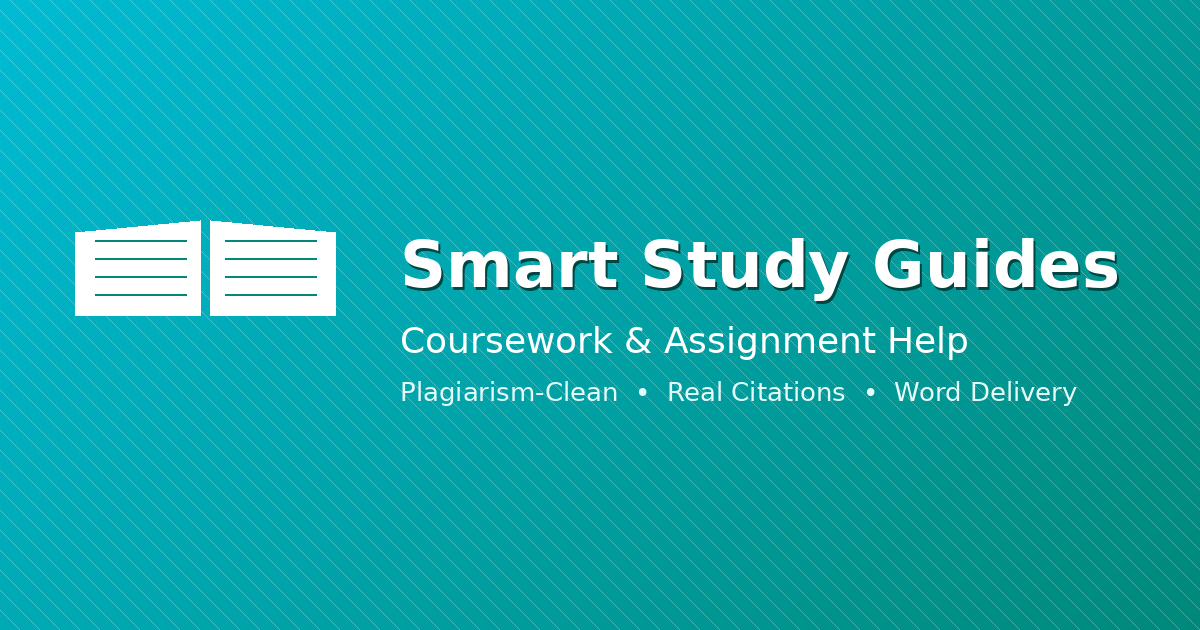
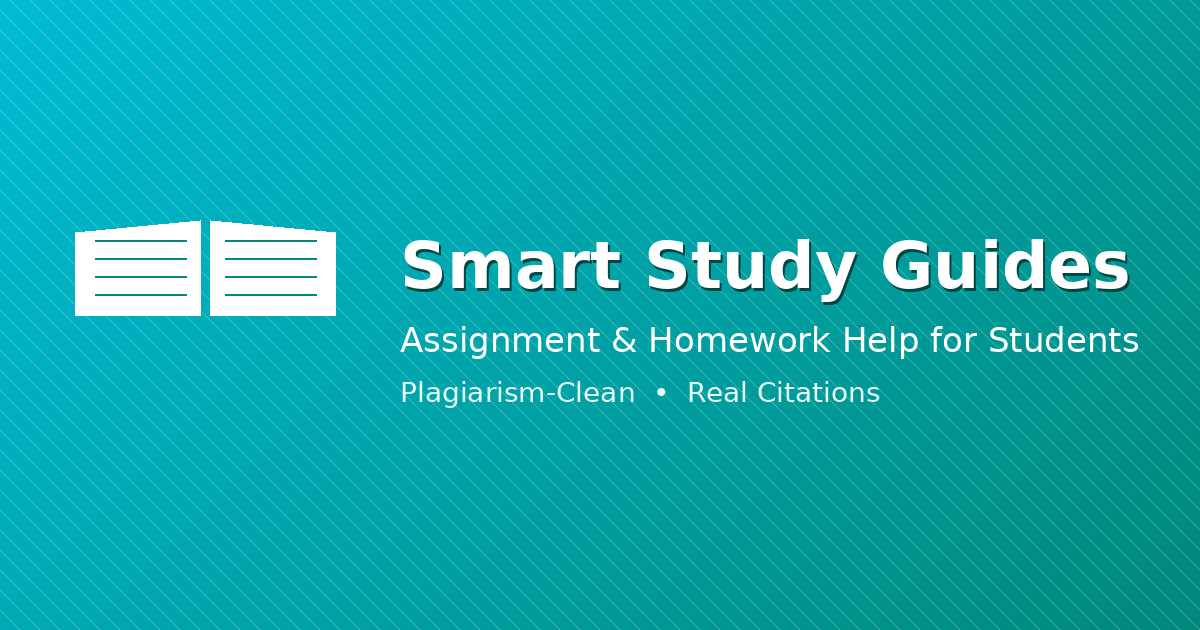
New student-focused search and marketing wording (no AI)
- Title: 'Smart Study Guides - Assignment & Homework Help for Students' (60 chars)
- Meta description (151 chars), keywords (assignment help, homework help, homework solver, student helper...), Open Graph and Twitter text
- Home: new H1, eyebrow and intro line; structured data description, FAQ and feature list reworded; no 'AI' in any structured data
- Guest dashboard and sign-in headlines match
- Redraw the share images with the new tagline

Changed region(s): [[0.3392, 0.3619, 0.9558, 0.4825], [0.3392, 0.5127, 0.9558, 0.573], [0.3392, 0.6032, 0.8942, 0.6635]]

diff --git a/flask_app/templates/base.html b/flask_app/templates/base.html
@@ -3,11 +3,11 @@
 <head>
   <meta charset="utf-8" />
   <meta name="viewport" content="width=device-width, initial-scale=1" />
-  <title>{% block title %}Smart Study Guides — Coursework and Assignment Help{% endblock %}</title>
+  <title>{% block title %}Smart Study Guides — Assignment &amp; Homework Help for Students{% endblock %}</title>
 
   <!-- ── SEO Meta ── -->
-  <meta name="description" content="{% block meta_description %}Smart Study Guides helps with coursework: polished, properly cited essays, discussion posts and presentations in minutes. Real research sources, delivered as a Word document.{% endblock %}" />
-  <meta name="keywords" content="{% block meta_keywords %}assignment help, coursework help, essay help, homework help, discussion posts, presentations, college assignment help, plagiarism-free assignments, APA MLA Harvard citations, Word document{% endblock %}" />
+  <meta name="description" content="{% block meta_description %}Assignment and homework help for students. Essays, discussion posts and presentations with real sources and proper citations, delivered as a Word file.{% endblock %}" />
+  <meta name="keywords" content="{% block meta_keywords %}assignment help, homework help, homework solver, essay help, student helper, coursework help, discussion posts, presentations, college assignment help, plagiarism-free assignments, APA MLA Harvard citations, Word document{% endblock %}" />
   <meta name="robots" content="{% block meta_robots %}index, follow{% endblock %}" />
   <link rel="canonical" href="{% block canonical %}https://smart-study-guides.com{{ request.path }}{% endblock %}" />
 
@@ -20,8 +20,8 @@
   <!-- ── Open Graph (Facebook, WhatsApp, LinkedIn) ── -->
   <meta property="og:type"        content="website" />
   <meta property="og:site_name"   content="Smart Study Guides" />
-  <meta property="og:title"       content="{% block og_title %}Smart Study Guides — Coursework and Assignment Help{% endblock %}" />
-  <meta property="og:description" content="{% block og_description %}Coursework and assignment help: polished, properly cited work with real research sources, delivered as a Word document.{% endblock %}" />
+  <meta property="og:title"       content="{% block og_title %}Smart Study Guides — Assignment &amp; Homework Help for Students{% endblock %}" />
+  <meta property="og:description" content="{% block og_description %}Assignment and homework help for students: essays, discussion posts and presentations with real citations, delivered as a Word file.{% endblock %}" />
   <meta property="og:url"         content="https://smart-study-guides.com{{ request.path }}" />
   <meta property="og:image"       content="{% block og_image %}https://smart-study-guides.com/static/img/og-cover.jpg{% endblock %}" />
   <meta property="og:image:width"  content="630" />
@@ -30,8 +30,8 @@
 
   <!-- ── Twitter / X Card ── -->
   <meta name="twitter:card"        content="summary_large_image" />
-  <meta name="twitter:title"       content="{% block twitter_title %}Smart Study Guides — Coursework and Assignment Help{% endblock %}" />
-  <meta name="twitter:description" content="{% block twitter_description %}Coursework and assignment help. Real research, plagiarism-clean, delivered as .docx.{% endblock %}" />
+  <meta name="twitter:title"       content="{% block twitter_title %}Smart Study Guides — Assignment &amp; Homework Help for Students{% endblock %}" />
+  <meta name="twitter:description" content="{% block twitter_description %}Assignment and homework help for students. Real sources, proper citations, delivered as a Word file.{% endblock %}" />
   <meta name="twitter:image"       content="{% block twitter_image %}https://smart-study-guides.com/static/img/og-cover.jpg{% endblock %}" />
 
   <!-- ── Extra head (JSON-LD etc) ── -->

diff --git a/flask_app/templates/home.html b/flask_app/templates/home.html
@@ -1,8 +1,8 @@
 {% extends "base.html" %}
-{% block title %}Smart Study Guides — Coursework and Assignment Help{% endblock %}
-{% block meta_description %}Smart Study Guides helps with coursework and assignments: polished, properly cited essays, discussion posts and presentations with real research sources, delivered as a Word document. Weekly Pass: $25 for 7 days.{% endblock %}
-{% block og_title %}Smart Study Guides — Coursework and Assignment Help{% endblock %}
-{% block og_description %}Coursework and assignment help with real citations. Polished, plagiarism-clean work delivered as a .docx file.{% endblock %}
+{% block title %}Smart Study Guides — Assignment &amp; Homework Help for Students{% endblock %}
+{% block meta_description %}Assignment and homework help for students. Essays, discussion posts and presentations with real sources and proper citations, delivered as a Word file.{% endblock %}
+{% block og_title %}Smart Study Guides — Assignment &amp; Homework Help for Students{% endblock %}
+{% block og_description %}Assignment and homework help for students: essays, discussion posts and presentations with real citations, delivered as a Word file.{% endblock %}
 {% block extra_head %}
 <!-- SoftwareApplication schema -->
 <script type="application/ld+json">
@@ -13,7 +13,7 @@
   "url": "https://smart-study-guides.com",
   "applicationCategory": "EducationalApplication",
   "operatingSystem": "Web",
-  "description": "Coursework and assignment help: essays, discussion posts and presentations with real research sources, delivered as Word documents.",
+  "description": "Assignment and homework help for students: essays, discussion posts and presentations with real research sources and proper citations, delivered as Word documents.",
   "offers": {
     "@type": "AggregateOffer",
     "lowPrice": "25.00",
@@ -24,7 +24,7 @@
   "featureList": [
     "Essays, discussion posts and presentations",
     "Real academic sources and citations",
-    "AI content checker",
+    "Built-in plagiarism checker",
     "Plagiarism checker",
     "Word document (.docx) delivery",
     "APA, MLA, Chicago, Harvard citation styles"
@@ -72,7 +72,7 @@
       "name": "What is Smart Study Guides?",
       "acceptedAnswer": {
         "@type": "Answer",
-        "text": "Smart Study Guides is a coursework and assignment service that produces fully written, properly cited essays and assignments. It sources real academic references and delivers a formatted Word document."
+        "text": "Smart Study Guides is an assignment and homework helper for students. It produces fully written, properly cited essays, discussion posts and presentations. It sources real academic references and delivers a formatted Word document."
       }
     },
     {
@@ -114,9 +114,9 @@
 {% block content %}
 <section class="landing-hero">
   <div class="landing-hero-inner">
-    <span class="landing-eyebrow">Coursework &amp; assignment help • Plagiarism-clean</span>
-    <h1>Smart Study Guides</h1>
-    <p class="landing-sub">Polished, properly-cited academic assignments in minutes. Real research, delivered as a Word document.</p>
+    <span class="landing-eyebrow">Assignment &amp; homework help • Plagiarism-clean</span>
+    <h1>Assignment &amp; Homework Help for Students</h1>
+    <p class="landing-sub">Essays, discussion posts and presentations with real research sources and proper citations. Delivered as a Word document in minutes.</p>
     <div class="landing-cta-row">
       {% if user and user.is_authenticated %}
         <a class="btn accent" href="{{ url_for('main.dashboard') }}">Open my dashboard</a>

diff --git a/flask_app/templates/dashboard_guest.html b/flask_app/templates/dashboard_guest.html
@@ -5,7 +5,7 @@
 <section class="dx-mast">
   <div class="dx-top">
     <div>
-      <h1 class="dx-greet">Coursework help, start to finish</h1>
+      <h1 class="dx-greet">Assignment &amp; homework help, start to finish</h1>
       <p class="dx-status">Look around first. You only need an account when you want to use something.</p>
       <div class="dx-cta">
         <a class="btn accent" href="{{ url_for('auth.signup') }}">Sign up free</a>

diff --git a/flask_app/templates/login.html b/flask_app/templates/login.html
@@ -10,7 +10,7 @@
     </a>
     <div class="auth-panel-body">
       <div class="auth-panel-icon">📝</div>
-      <h2>Polished academic papers in minutes</h2>
+      <h2>Assignment and homework help in minutes</h2>
       <p>Real sources. Proper citations. Delivered as a .docx.</p>
       <ul class="auth-panel-bullets">
         <li>✅ 10% off your first subscription</li>
